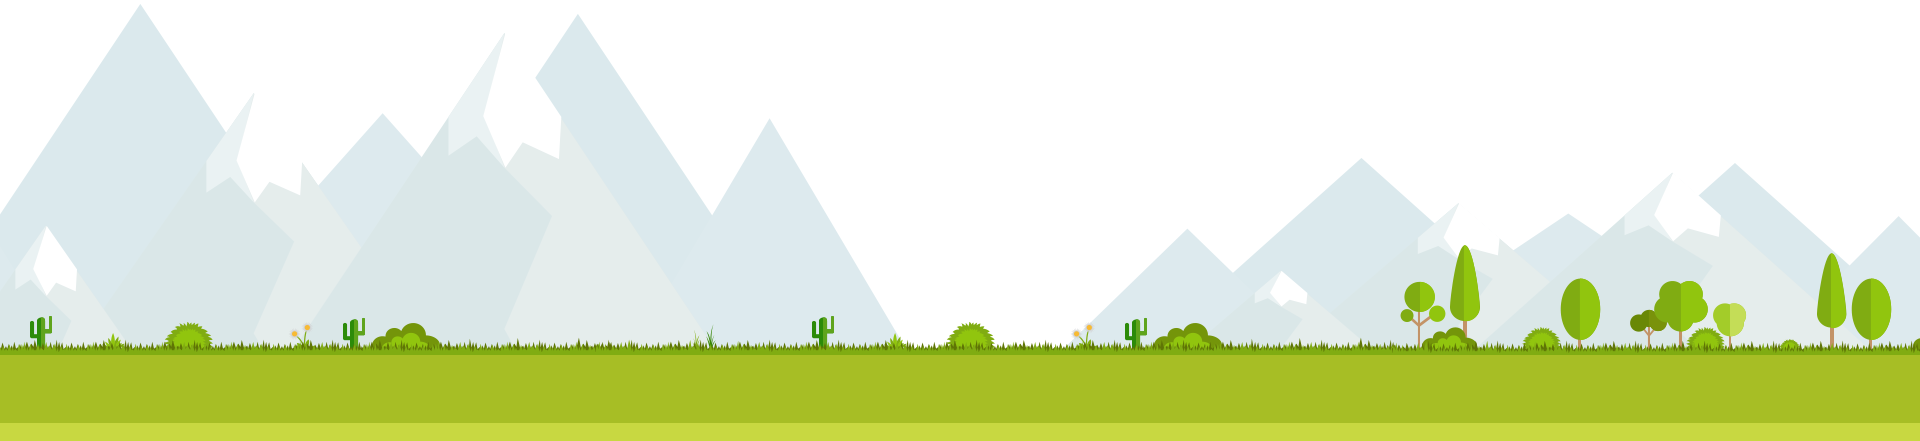
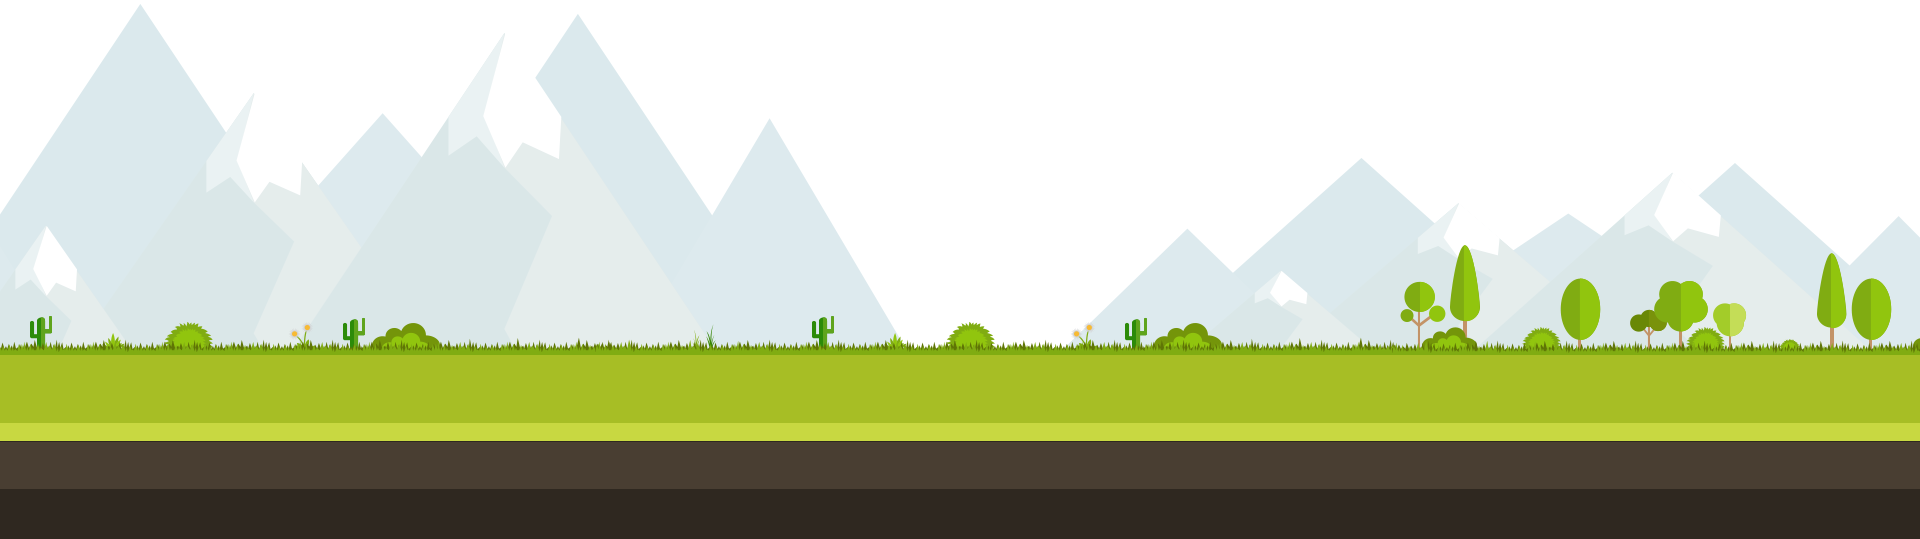
1) changed the background and bottom offset of the elements. 2) Reduced the sweets size. 3) Slightly reduced the player size.

diff --git a/index.js b/index.js
@@ -14,8 +14,10 @@ const GAME_SPEED_INCREMENT = 0.00001;
 
 const GAME_WIDTH = 800;
 const GAME_HEIGHT = 200;
-const PLAYER_WIDTH = 67 / 1.5; //58
-const PLAYER_HEIGHT = 100 / 1.5; //62
+// const PLAYER_WIDTH = 67 / 1.5; //58
+// const PLAYER_HEIGHT = 100 / 1.5; //62
+const PLAYER_WIDTH = 67 / 1.6; //58
+const PLAYER_HEIGHT = 100 / 1.6; //62
 const MAX_JUMP_HEIGHT = GAME_HEIGHT;
 const MIN_JUMP_HEIGHT = 150;
 const GROUND_WIDTH = 2400;
@@ -201,16 +203,19 @@ function updateGameSpeed(frameTimeDelta) {
 function clearScreen() {
   // Create vertical gradient: sky blue at top, white at ground
   const gradient = ctx.createLinearGradient(0, 0, 0, canvas.height);
-  gradient.addColorStop(0, "#87ceeb"); // top: sky blue
-  gradient.addColorStop(1, "#ffffff"); // bottom: white
+  // gradient.addColorStop(0, "#87ceeb"); // top: sky blue
+  gradient.addColorStop(0, "#f7fffe"); // top: sky blue
+  gradient.addColorStop(1, "#f7fffe"); // bottom: white
   ctx.fillStyle = gradient;
   ctx.fillRect(0, 0, canvas.width, canvas.height);
 
   // Draw background image in a loop (position updated in gameLoop)
   if (backgroundLoaded) {
     const bgWidth = canvas.width;
-    ctx.drawImage(backgroundImage, backgroundX, 0, bgWidth, canvas.height);
-    ctx.drawImage(backgroundImage, backgroundX + bgWidth, 0, bgWidth, canvas.height);
+    const marginTop = 30 * scaleRatio; // 30px margin top, adjust as needed
+    const bgHeight = canvas.height - marginTop;
+    ctx.drawImage(backgroundImage, backgroundX, marginTop, bgWidth, bgHeight);
+    ctx.drawImage(backgroundImage, backgroundX + bgWidth -1, marginTop, bgWidth, bgHeight);
   }
 }
 

diff --git a/CactiController.js b/CactiController.js
@@ -35,7 +35,7 @@ export default class CactiController {
     const cactusImage = this.cactiImages[index];
     const x = this.canvas.width * 1.5;
     // Slightly reduce the bottom offset
-    const BOTTOM_OFFSET = 8 * this.scaleRatio;
+    const BOTTOM_OFFSET = 31 * this.scaleRatio;
     const y = this.canvas.height - cactusImage.height - BOTTOM_OFFSET;
     const cactus = new Cactus(
       this.ctx,

diff --git a/Coin.js b/Coin.js
@@ -22,8 +22,8 @@ class Coin {
       this.image = new Image();
       this.image.src = sweetSrc;
       this.scoreValue = 200;
-      this.width = (isMobile ? 40 : 40) * scaleRatio;
-      this.height = (isMobile ? 40 : 40) * scaleRatio;
+      this.width = (isMobile ? 40 : 30) * scaleRatio;
+      this.height = (isMobile ? 40 : 30) * scaleRatio;
     }
   }
 

diff --git a/Player.js b/Player.js
@@ -19,7 +19,7 @@ export default class Player {
     this.scaleRatio = scaleRatio;
 
     this.x = 10 * scaleRatio;
-    const BOTTOM_OFFSET = 10 * scaleRatio;
+    const BOTTOM_OFFSET = 31 * scaleRatio;
     this.y = this.canvas.height - this.height - BOTTOM_OFFSET;
     this.yStandingPosition = this.y;
 
